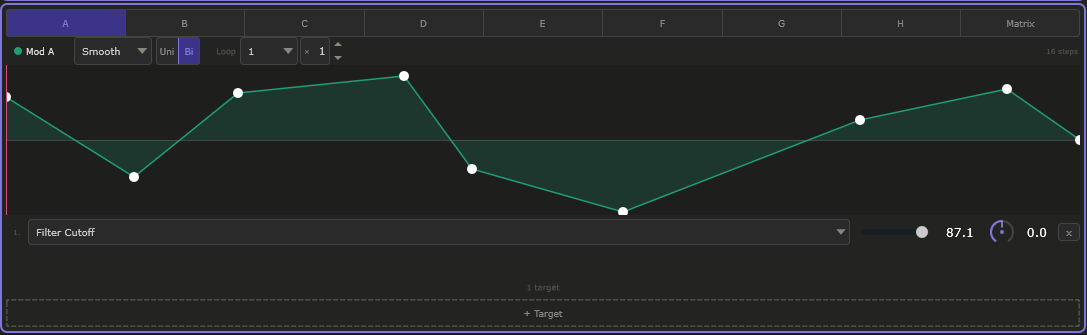
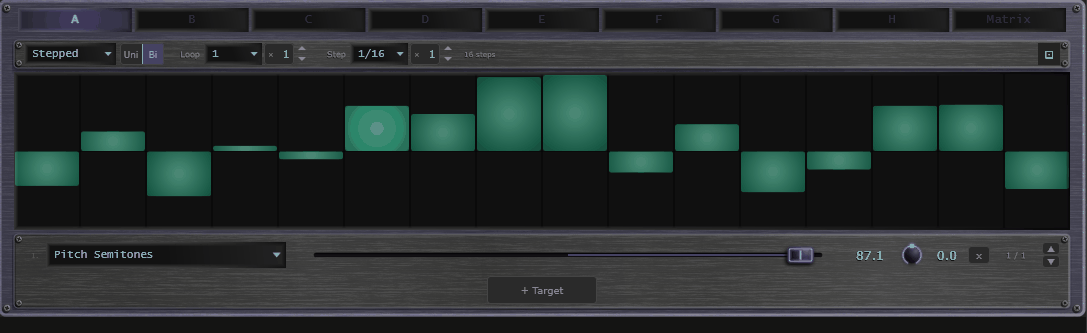
Site: replace screenshots with current UI (mu-Clid, mu-Tant)
Fresh Debug Standalone captures (build 1410 tree, metal style); PNGs palette-compressed.
mu-tant page: grid screenshots no longer cropped to 16:10 (matches mu-clid page).

Stage(s): site only
Issues closed: none (Refs site screenshots refresh)
Version: v1.1.1410

diff --git a/site/mu-tant.html b/site/mu-tant.html
@@ -229,9 +229,6 @@ footer { border-top: 1px solid var(--border); padding: 48px 0 36px; }
 
 </style>
   <style>
-    /* Normalise grid screenshot heights regardless of image aspect ratio */
-    .screenshot-grid .ss-placeholder { aspect-ratio: 16/10; }
-    .screenshot-grid .ss-placeholder img { width: 100%; height: 100%; object-fit: cover; object-position: top left; }
 
     #hero { min-height: 80vh; display: flex; align-items: center; padding: 120px 0 80px; border-bottom: 1px solid var(--border); }
     .hero-inner { display: grid; grid-template-columns: 1fr 1fr; gap: 60px; align-items: center; }
